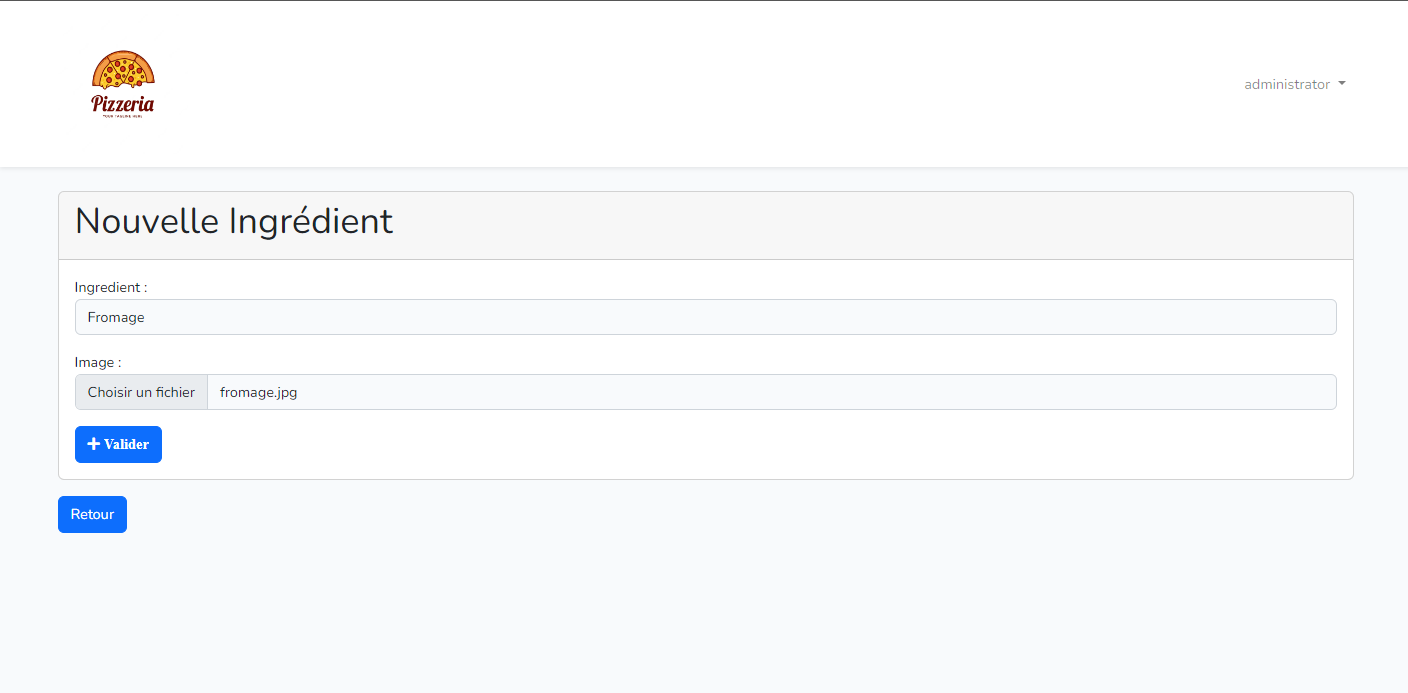
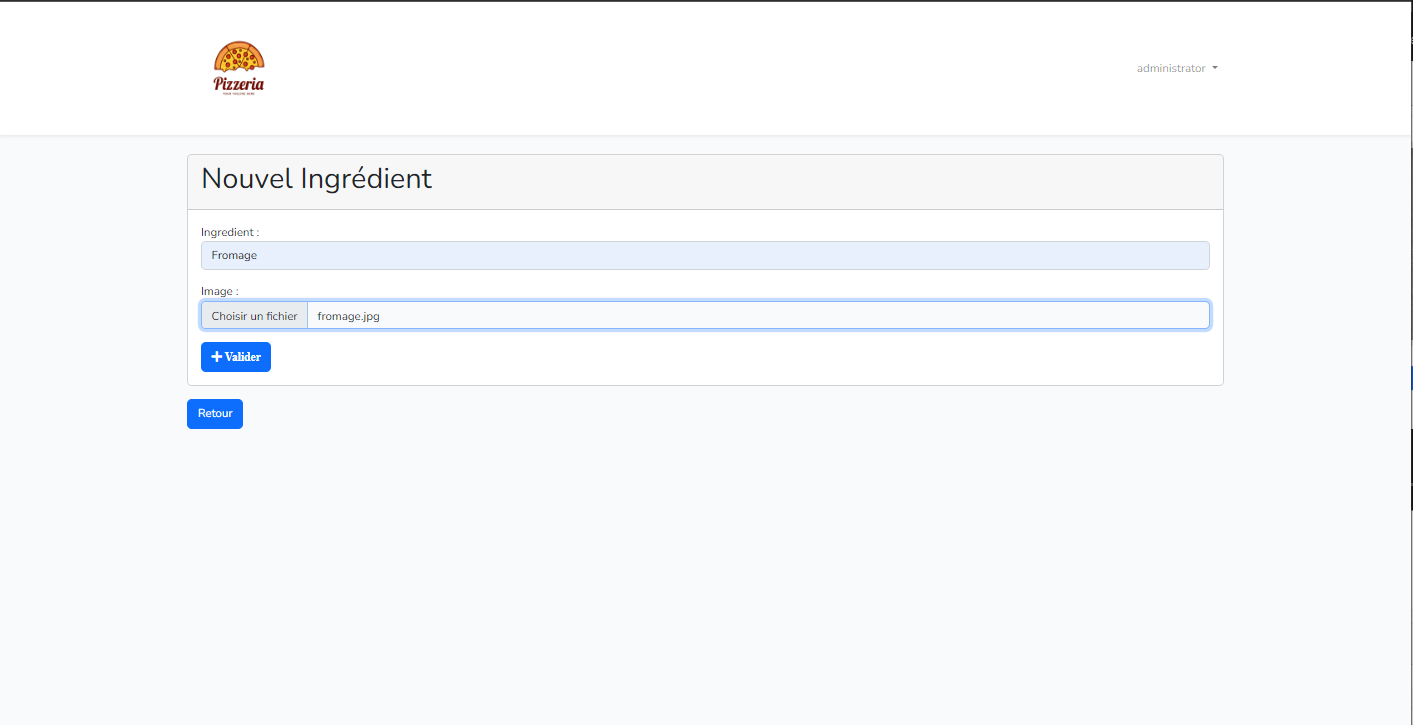
Readme

diff --git a/app/Http/Controllers/GarnitureController.php b/app/Http/Controllers/GarnitureController.php
@@ -27,7 +27,7 @@ class GarnitureController extends Controller
     {
         $ingredients = Ingredient::all();
         $pizza = Pizza::find($id);
-        $titre = "Nouvelle Ingrédient de la garniture";
+        $titre = "Nouvel Ingrédient de la garniture";
         $data = ['title' => $titre, 'pizza' => $pizza, 'ingredients' => $ingredients];
         return view('garniture-form', $data);
     }

diff --git a/app/Http/Controllers/IngredientController.php b/app/Http/Controllers/IngredientController.php
@@ -22,7 +22,7 @@ class IngredientController extends Controller
 
     public function create()
     {
-        $titre = "Nouvelle Ingrédient";
+        $titre = "Nouvel Ingrédient";
         $data = ['title' => $titre];
         return view('ingredient-form', $data);
     }

diff --git a/README.md b/README.md
@@ -1,8 +1,12 @@
-Le projet est en php8.1 et laravel 10, pour éviter toutes configurations il est préférable pour le moment d'utiliser le serveur web laragon.
+Le projet est en php8.1 et laravel 9, pour éviter toutes configurations il est préférable pour le moment d'utiliser le serveur web laragon.
 
 Pour Laragon : https://github.com/leokhoa/laragon/releases/download/6.0.0/laragon-wamp.exe
 
 Installer Composer : https://getcomposer.org/Composer-Setup.exe
+
+Les extensions PHP requises :
+
+![img](imgReadme/f38.PNG)
 
 Après avoir installé laragon nous faisons un simple git clone du projet  dans C:\laragon\www
 
@@ -12,82 +16,304 @@ Après avoir installé laragon nous faisons un simple git clone du projet  dans 
 
 étape 1 git clone dans C:\laragon\www
 
-
 étape 2 composer update pour récupérer les différents dossiers/fichiers nécessaire.
 
+étape 3 Créer la base de données php artisan migrate (laragon pas besoin de la créer préalablement).
 
-étape 3 renommer le fichier .env.example par .env
+Si un autre serveur web :
 
+![img](imgReadme/f30.PNG)
 
-étape 4 générer une clé d'utilisation : php artisan key:generate
+étape 4 renommer le fichier .env.example par .env
 
+![img](imgReadme/f31.PNG)
 
 étape 5 configurer le fichier .env
-
-étape 6 faire un lien symbolique php artisan storage:link
  
-étape 7 Créer la base de données php artisan migrate
+![img](imgReadme/f32.PNG)
 
-étape 8 Remplir la base de données php artisan db:seed
+étape 6 créer un  lien symbolique d'images --> commande php artisan storage:link 
 
-étape 9 Nous pouvons nous rendre sur le site en vérifiant le nom domaine(virtualhost) que laragon nous à crée.
+![img](imgReadme/f33.PNG)
 
-Il n'est pas nécessaire de faire lancer le serveur web de Laravel (artisan serve)
+![img](imgReadme/f34.PNG)
+
+étape 7 Remplir la base de données php artisan db:seed
+
+![img](imgReadme/f35.PNG)
+
+![img](imgReadme/f36.PNG)
+
+Cela nous permet de créer l'utilisateur admin.
+
+login de l'admin :
+
+adresse mail : admin@outlook.fr
+
+mot de passe : siojjr509
+
+
+étape 8 générer une clé d'utilisation : php artisan key:generate
+
+![img](imgReadme/f37.PNG)
+
+Il n'est pas nécessaire de faire ( php artisan serve).
+
+## Diagramme de classe :
+
+```plantuml
+@startuml
+left to right direction
+class pizzas {
+  <u>id</u>
+  text
+  picture
+  prix
+  created_at
+  updated_at
+}
+
+class ingredients {
+    <u>id</u>
+    text
+    picture
+    created_at
+    updated_at
+}
+
+class garnitures{
+    <u>id</u>
+    order
+    quantity
+    idIngredient
+    idPizza
+    created_at
+    updated_at
+    
+}
+
+
+class users {
+    <u>id</u>
+    name
+    email
+    email_verified_at
+    password
+    remember_token
+    created_at
+    updated_at
+}
+
+class commande {
+    <u>id</u>
+    total
+    date_commande
+    idUser
+    created_at
+    updated_at
+
+}
+
+class panier{
+    <u>id</u>
+    acheter
+    quantity
+	idUser
+    idPizza
+    idCommande
+    created_at
+    updated_at
+}
+
+
+pizzas"1..1"--- "1..*" garnitures
+garnitures"1..*" --- "1..1" ingredients
+users"1..1" --- "0...*" panier
+panier"1...*"  --- "1..1" commande
+pizzas"1..*" --- "0...*" panier
+@enduml
+```
+## <u>Cas d'utilisation Visiteur</u> :
+
+```plantuml
+@startuml Pizzafork
+left to right direction
+:Visiteur:
+package Pizzafork{
+    
+    
+    (Visiteur)--(Voir la carte) 
+	(Visiteur)--(S'inscrire)
+    (S'inscrire)<..(Se connecter) : <<include>>
+	
+}
+@enduml
+```
+
+## <u>Cas d'utilisation Client</u> :
+
+```plantuml
+@startuml Pizzafork
+left to right direction
+:Client:
+package Pizzafork{
+    Client--(Se connecter)
+    
+	
+	(Se connecter)<..(Consulter ses commandes) : <<include>>
+    (Se connecter)<..(Commander des pizzas) : <<include>>
+    (Se connecter)<..(Supprimer des pizzas du panier) : <<include>>
+    (Se connecter)<..(Ajouter des pizzas au panier) : <<include>>
+    (Se connecter)<..(Consulter les garnitures des pizzas) : <<include>>
+    (Se connecter)<..(Voir la carte) : <<include>>
+    (Ajouter des pizzas au panier)<..(Incrémenter quantité) : <<include>>
+    (Ajouter des pizzas au panier)<..(Décrémenter quantité) : <<include>>
+	
+}
+@enduml
+```
+
+## <u>Cas d'utilisation Admin</u> :
+
+```plantuml
+@startuml Pizzafork
+left to right direction
+:Admin:
+package Pizzafork{
+    Admin--(Se connecter)
+    (Se connecter)<..(Supprimer les ingrédients) : <<include>>
+    (Se connecter)<..(Modifier les ingrédients) : <<include>>
+    (Se connecter)<..(Supprimer les garnitures des pizzas ) : <<include>>
+	(Se connecter)<..(modifier les garnitures des pizzas à partir des ingrédients ajoutés) : <<include>>
+    (Se connecter)<..(Créer les garnitures des pizzas à partir des ingrédients ajoutés) : <<include>>
+	(Se connecter)<..(Supprimer les pizzas) : <<include>>
+    (Se connecter)<..(Modifier les pizzas) : <<include>>
+    (Se connecter)<..(Ajouter des pizzas à la carte) : <<include>>
+	
+}
+@enduml
+```
+La page d'accueil du site :
 
 ![img](imgReadme/f1.PNG)
+
+Pour tester la pagination nous l'avons paramétrée à 2 pizzas par pages :
 
 ![img](imgReadme/f27.PNG)
 
 ![img](imgReadme/f28.PNG)
 
+login de l'admin :
+
+adresse mail : admin@outlook.fr
+
+mot de passe : siojjr509
+
+Connectons nous en tant qu 'administrateur :
 
 ![img](imgReadme/f2.PNG)
 
+la page principale du compte admin, Il a possibilités de d'ajouter, modifier, suppimer et consulter la garnitures des pizzas  :
+
 ![img](imgReadme/f3.PNG)
+
+Nous y reviendrons plus tard, consultons les ingrédients disponibles.
+
+Nosu pouvons que pour le moment le seul ingrédient disponible est la pâte à pizza :
 
 ![img](imgReadme/f4.PNG)
 
+Ajoutons un nouvelle ingrédient en cliquant sur le bouton +.
+
+Dans le formulaire de création nous saisissons son nom "fromage" et une photo :
+
 ![img](imgReadme/f5.PNG)
+
+L'ingrédient a bien été ajouté :
 
 ![img](imgReadme/f6.PNG)
 
+Modifions le en lui donnat le nom mozzarela :
+
 ![img](imgReadme/f7.PNG)
+
+Il a été modifié :
 
 ![img](imgReadme/f8.PNG)
 
+Rajoutons un nouvel ingrédient, il nous sera utile pour la suite (poivron) :
+
 ![img](imgReadme/f9.PNG)
+
+Sur la page principale du compte admin, nous cliquons sur l'icône grise pour consulter la garniture de la Buffalo :
 
 ![img](imgReadme/f10.PNG)
 
+Pour le moment la garniture de la buffalo n'a que la pâte à pizza :
+
 ![img](imgReadme/f11.PNG)
+
+Rajoutons un nouvel ingrédient à la garniture :
 
 ![img](imgReadme/f12.PNG)
 
+L'ingrédient a bien ajouté à sa garniture :
+
 ![img](imgReadme/f13.PNG)
+
+Déconnectons-nous :
 
 ![img](imgReadme/f14.PNG)
 
 ![img](imgReadme/f15.PNG)
 
+Nous créeons un nouvel utilisateur du nom d'Adrien :
+
 ![img](imgReadme/f16.PNG)
+
+Après la validation de l'inscription, nous somme redirigée sur la page d'accueil :
 
 ![img](imgReadme/f17.PNG)
 
+Pour le moment notre panier est vide :
+
 ![img](imgReadme/f18.PNG)
+
+Rajoutons des pizzas au panier :
 
 ![img](imgReadme/f19.PNG)
 
+Nous prenons 2 Buffalo :
+
 ![img](imgReadme/f20.PNG)
+
+Nous avons un prix total de 40 €, commandons.
+
+la commande a bien été reçu :
 
 ![img](imgReadme/f21.PNG)
 
+Cliquons sur mes commandes pour qu' Adrien consulte ses commandes :
+
+![img](imgReadme/f29.PNG)
+
+Nous pouvons voir la commande précédente :
+
 ![img](imgReadme/f22.PNG)
+
+Nous cliquons sur ma commande et nous pouvons voir les pizzas de la commande :
 
 ![img](imgReadme/f23.PNG)
 
+Par gourmandise Adrien recommande 3 française :
+
 ![img](imgReadme/f24.PNG)
 
+la commande a été validée :
+
 ![img](imgReadme/f25.PNG)
+
+Les pizzas de la commande nous retrouvons les  3 française :
 
 ![img](imgReadme/f26.PNG)
 
